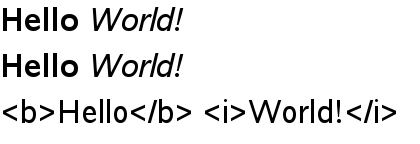
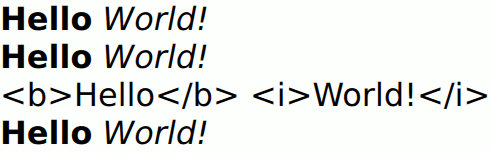
Text and TextEdit: document MarkdownText format
Task-number: QTBUG-81306

Changed region(s): [[0.0, 0.2778, 1.0, 0.9722], [0.0, 0.0278, 0.4333, 0.2222]]

diff --git a/src/quick/doc/snippets/qml/text/textEditFormats.qml b/src/quick/doc/snippets/qml/text/textEditFormats.qml
@@ -1,0 +1,76 @@
+/****************************************************************************
+**
+** Copyright (C) 2020 The Qt Company Ltd.
+** Contact: https://www.qt.io/licensing/
+**
+** This file is part of the QtQuick module of the Qt Toolkit.
+**
+** $QT_BEGIN_LICENSE:BSD$
+** Commercial License Usage
+** Licensees holding valid commercial Qt licenses may use this file in
+** accordance with the commercial license agreement provided with the
+** Software or, alternatively, in accordance with the terms contained in
+** a written agreement between you and The Qt Company. For licensing terms
+** and conditions see https://www.qt.io/terms-conditions. For further
+** information use the contact form at https://www.qt.io/contact-us.
+**
+** BSD License Usage
+** Alternatively, you may use this file under the terms of the BSD license
+** as follows:
+**
+** "Redistribution and use in source and binary forms, with or without
+** modification, are permitted provided that the following conditions are
+** met:
+**   * Redistributions of source code must retain the above copyright
+**     notice, this list of conditions and the following disclaimer.
+**   * Redistributions in binary form must reproduce the above copyright
+**     notice, this list of conditions and the following disclaimer in
+**     the documentation and/or other materials provided with the
+**     distribution.
+**   * Neither the name of The Qt Company Ltd nor the names of its
+**     contributors may be used to endorse or promote products derived
+**     from this software without specific prior written permission.
+**
+**
+** THIS SOFTWARE IS PROVIDED BY THE COPYRIGHT HOLDERS AND CONTRIBUTORS
+** "AS IS" AND ANY EXPRESS OR IMPLIED WARRANTIES, INCLUDING, BUT NOT
+** LIMITED TO, THE IMPLIED WARRANTIES OF MERCHANTABILITY AND FITNESS FOR
+** A PARTICULAR PURPOSE ARE DISCLAIMED. IN NO EVENT SHALL THE COPYRIGHT
+** OWNER OR CONTRIBUTORS BE LIABLE FOR ANY DIRECT, INDIRECT, INCIDENTAL,
+** SPECIAL, EXEMPLARY, OR CONSEQUENTIAL DAMAGES (INCLUDING, BUT NOT
+** LIMITED TO, PROCUREMENT OF SUBSTITUTE GOODS OR SERVICES; LOSS OF USE,
+** DATA, OR PROFITS; OR BUSINESS INTERRUPTION) HOWEVER CAUSED AND ON ANY
+** THEORY OF LIABILITY, WHETHER IN CONTRACT, STRICT LIABILITY, OR TORT
+** (INCLUDING NEGLIGENCE OR OTHERWISE) ARISING IN ANY WAY OUT OF THE USE
+** OF THIS SOFTWARE, EVEN IF ADVISED OF THE POSSIBILITY OF SUCH DAMAGE."
+**
+** $QT_END_LICENSE$
+**
+****************************************************************************/
+import QtQuick 2.14
+
+//![0]
+Column {
+    TextEdit {
+        font.pointSize: 24
+        textFormat: TextEdit.AutoText
+        text: "<b>Hello</b> <i>World!</i>"
+    }
+    TextEdit {
+        font.pointSize: 24
+        textFormat: TextEdit.RichText
+        text: "<b>Hello</b> <i>World!</i>"
+    }
+    TextEdit {
+        font.pointSize: 24
+        textFormat: TextEdit.PlainText
+        text: "<b>Hello</b> <i>World!</i>"
+    }
+    TextEdit {
+        font.pointSize: 24
+        textFormat: TextEdit.MarkdownText
+        text: "**Hello** *World!*"
+    }
+}
+//![0]
+

diff --git a/src/quick/doc/snippets/qml/text/textFormats.qml b/src/quick/doc/snippets/qml/text/textFormats.qml
@@ -1,0 +1,75 @@
+/****************************************************************************
+**
+** Copyright (C) 2020 The Qt Company Ltd.
+** Contact: https://www.qt.io/licensing/
+**
+** This file is part of the QtQuick module of the Qt Toolkit.
+**
+** $QT_BEGIN_LICENSE:BSD$
+** Commercial License Usage
+** Licensees holding valid commercial Qt licenses may use this file in
+** accordance with the commercial license agreement provided with the
+** Software or, alternatively, in accordance with the terms contained in
+** a written agreement between you and The Qt Company. For licensing terms
+** and conditions see https://www.qt.io/terms-conditions. For further
+** information use the contact form at https://www.qt.io/contact-us.
+**
+** BSD License Usage
+** Alternatively, you may use this file under the terms of the BSD license
+** as follows:
+**
+** "Redistribution and use in source and binary forms, with or without
+** modification, are permitted provided that the following conditions are
+** met:
+**   * Redistributions of source code must retain the above copyright
+**     notice, this list of conditions and the following disclaimer.
+**   * Redistributions in binary form must reproduce the above copyright
+**     notice, this list of conditions and the following disclaimer in
+**     the documentation and/or other materials provided with the
+**     distribution.
+**   * Neither the name of The Qt Company Ltd nor the names of its
+**     contributors may be used to endorse or promote products derived
+**     from this software without specific prior written permission.
+**
+**
+** THIS SOFTWARE IS PROVIDED BY THE COPYRIGHT HOLDERS AND CONTRIBUTORS
+** "AS IS" AND ANY EXPRESS OR IMPLIED WARRANTIES, INCLUDING, BUT NOT
+** LIMITED TO, THE IMPLIED WARRANTIES OF MERCHANTABILITY AND FITNESS FOR
+** A PARTICULAR PURPOSE ARE DISCLAIMED. IN NO EVENT SHALL THE COPYRIGHT
+** OWNER OR CONTRIBUTORS BE LIABLE FOR ANY DIRECT, INDIRECT, INCIDENTAL,
+** SPECIAL, EXEMPLARY, OR CONSEQUENTIAL DAMAGES (INCLUDING, BUT NOT
+** LIMITED TO, PROCUREMENT OF SUBSTITUTE GOODS OR SERVICES; LOSS OF USE,
+** DATA, OR PROFITS; OR BUSINESS INTERRUPTION) HOWEVER CAUSED AND ON ANY
+** THEORY OF LIABILITY, WHETHER IN CONTRACT, STRICT LIABILITY, OR TORT
+** (INCLUDING NEGLIGENCE OR OTHERWISE) ARISING IN ANY WAY OUT OF THE USE
+** OF THIS SOFTWARE, EVEN IF ADVISED OF THE POSSIBILITY OF SUCH DAMAGE."
+**
+** $QT_END_LICENSE$
+**
+****************************************************************************/
+import QtQuick 2.14
+
+//![0]
+Column {
+    Text {
+        font.pointSize: 24
+        text: "<b>Hello</b> <i>World!</i>"
+    }
+    Text {
+        font.pointSize: 24
+        textFormat: Text.RichText
+        text: "<b>Hello</b> <i>World!</i>"
+    }
+    Text {
+        font.pointSize: 24
+        textFormat: Text.PlainText
+        text: "<b>Hello</b> <i>World!</i>"
+    }
+    Text {
+        font.pointSize: 24
+        textFormat: Text.MarkdownText
+        text: "**Hello** *World!*"
+    }
+}
+//![0]
+

diff --git a/src/quick/items/qquicktext.cpp b/src/quick/items/qquicktext.cpp
@@ -1640,6 +1640,9 @@ void QQuickText::itemChange(ItemChange change, const ItemChangeData &value)
 
     The item will try to automatically determine whether the text should
     be treated as styled text. This determination is made using Qt::mightBeRichText().
+    However, detection of Markdown is not automatic.
+
+    \sa textFormat
 */
 QString QQuickText::text() const
 {
@@ -2067,26 +2070,25 @@ void QQuickText::resetMaximumLineCount()
 /*!
     \qmlproperty enumeration QtQuick::Text::textFormat
 
-    The way the text property should be displayed.
+    The way the \l text property should be displayed.
 
     Supported text formats are:
 
-    \list
-    \li Text.AutoText (default)
-    \li Text.PlainText
-    \li Text.StyledText
-    \li Text.RichText
-    \endlist
+    \value Text.AutoText        (default) detected via the Qt::mightBeRichText() heuristic
+    \value Text.PlainText       all styling tags are treated as plain text
+    \value Text.StyledText      optimized basic rich text as in HTML 3.2
+    \value Text.RichText        \l {Supported HTML Subset} {a subset of HTML 4}
+    \value Text.MarkdownText    \l {https://commonmark.org/help/}{CommonMark} plus the
+                                \l {https://guides.github.com/features/mastering-markdown/}{GitHub}
+                                extensions for tables and task lists (since 5.14)
 
     If the text format is \c Text.AutoText the Text item
     will automatically determine whether the text should be treated as
-    styled text.  This determination is made using Qt::mightBeRichText()
-    which uses a fast and therefore simple heuristic. It mainly checks
-    whether there is something that looks like a tag before the first
-    line break. Although the result may be correct for common cases,
-    there is no guarantee.
+    styled text.  This determination is made using Qt::mightBeRichText(),
+    which can detect the presence of an HTML tag on the first line of text,
+    but cannot distinguish Markdown from plain text.
 
-    Text.StyledText is an optimized format supporting some basic text
+    \c Text.StyledText is an optimized format supporting some basic text
     styling markup, in the style of HTML 3.2:
 
     \code
@@ -2112,30 +2114,21 @@ void QQuickText::resetMaximumLineCount()
     \table
     \row
     \li
-    \qml
-Column {
-    Text {
-        font.pointSize: 24
-        text: "<b>Hello</b> <i>World!</i>"
-    }
-    Text {
-        font.pointSize: 24
-        textFormat: Text.RichText
-        text: "<b>Hello</b> <i>World!</i>"
-    }
-    Text {
-        font.pointSize: 24
-        textFormat: Text.PlainText
-        text: "<b>Hello</b> <i>World!</i>"
-    }
-}
-    \endqml
+    \snippet qml/text/textFormats.qml 0
     \li \image declarative-textformat.png
     \endtable
 
-    Text.RichText supports a larger subset of HTML 4, as described on the
-    \l {Supported HTML Subset} page. You should prefer using Text.PlainText
-    or Text.StyledText instead, as they offer better performance.
+    \c Text.RichText supports a larger subset of HTML 4, as described on the
+    \l {Supported HTML Subset} page. You should prefer using \c Text.PlainText,
+    \c Text.StyledText or \c Text.MarkdownText instead, as they offer better performance.
+
+    \note With \c Text.MarkdownText, and with the supported subset of HTML,
+    some decorative elements are not rendered as they would be in a web browser:
+    \list
+    \li code blocks use the \l {QFontDatabase::FixedFont}{default monospace font} but without a surrounding highlight box
+    \li block quotes are indented, but there is no vertical line alongside the quote
+    \li horizontal rules are not rendered
+    \endlist
 */
 QQuickText::TextFormat QQuickText::textFormat() const
 {

diff --git a/src/quick/items/qquicktextedit.cpp b/src/quick/items/qquicktextedit.cpp
@@ -395,6 +395,7 @@ QString QQuickTextEdit::text() const
     The text to display.  If the text format is AutoText the text edit will
     automatically determine whether the text should be treated as
     rich text.  This determination is made using Qt::mightBeRichText().
+    However, detection of Markdown is not automatic.
 
     The text-property is mostly suitable for setting the initial content and
     handling modifications to relatively small text content. The append(),
@@ -402,7 +403,7 @@ QString QQuickTextEdit::text() const
     remarkably better performance for modifying especially large rich text
     content.
 
-    \sa clear()
+    \sa clear(), textFormat
 */
 void QQuickTextEdit::setText(const QString &text)
 {
@@ -444,41 +445,43 @@ QString QQuickTextEdit::preeditText() const
 /*!
     \qmlproperty enumeration QtQuick::TextEdit::textFormat
 
-    The way the text property should be displayed.
+    The way the \l text property should be displayed.
 
-    \list
-    \li TextEdit.AutoText
-    \li TextEdit.PlainText
-    \li TextEdit.RichText
-    \endlist
+    Supported text formats are:
 
-    The default is TextEdit.PlainText.  If the text format is TextEdit.AutoText the text edit
-    will automatically determine whether the text should be treated as
-    rich text.  This determination is made using Qt::mightBeRichText().
+    \value TextEdit.PlainText       (default) all styling tags are treated as plain text
+    \value TextEdit.AutoText        detected via the Qt::mightBeRichText() heuristic
+    \value TextEdit.RichText        \l {Supported HTML Subset} {a subset of HTML 4}
+    \value TextEdit.MarkdownText    \l {https://commonmark.org/help/}{CommonMark} plus the
+                                    \l {https://guides.github.com/features/mastering-markdown/}{GitHub}
+                                    extensions for tables and task lists (since 5.14)
+
+    The default is \c TextEdit.PlainText. If the text format is set to
+    \c TextEdit.AutoText, the text edit will automatically determine whether
+    the text should be treated as rich text. This determination is made using
+    Qt::mightBeRichText(), which can detect the presence of an HTML tag on the
+    first line of text, but cannot distinguish Markdown from plain text.
 
     \table
     \row
     \li
-    \qml
-Column {
-    TextEdit {
-        font.pointSize: 24
-        text: "<b>Hello</b> <i>World!</i>"
-    }
-    TextEdit {
-        font.pointSize: 24
-        textFormat: TextEdit.RichText
-        text: "<b>Hello</b> <i>World!</i>"
-    }
-    TextEdit {
-        font.pointSize: 24
-        textFormat: TextEdit.PlainText
-        text: "<b>Hello</b> <i>World!</i>"
-    }
-}
-    \endqml
+    \snippet qml/text/textEditFormats.qml 0
     \li \image declarative-textformat.png
     \endtable
+
+    With \c TextEdit.MarkdownText, checkboxes that result from using the
+    \l {https://guides.github.com/features/mastering-markdown/#GitHub-flavored-markdown}{GitHub checkbox extension}
+    are interactively checkable.
+
+    \note Interactively typing markup or markdown formatting is not supported.
+
+    \note With \c Text.MarkdownText, and with the supported subset of HTML,
+    some decorative elements are not rendered as they would be in a web browser:
+    \list
+    \li code blocks use the \l {QFontDatabase::FixedFont}{default monospace font} but without a surrounding highlight box
+    \li block quotes are indented, but there is no vertical line alongside the quote
+    \li horizontal rules are not rendered
+    \endlist
 */
 QQuickTextEdit::TextFormat QQuickTextEdit::textFormat() const
 {
